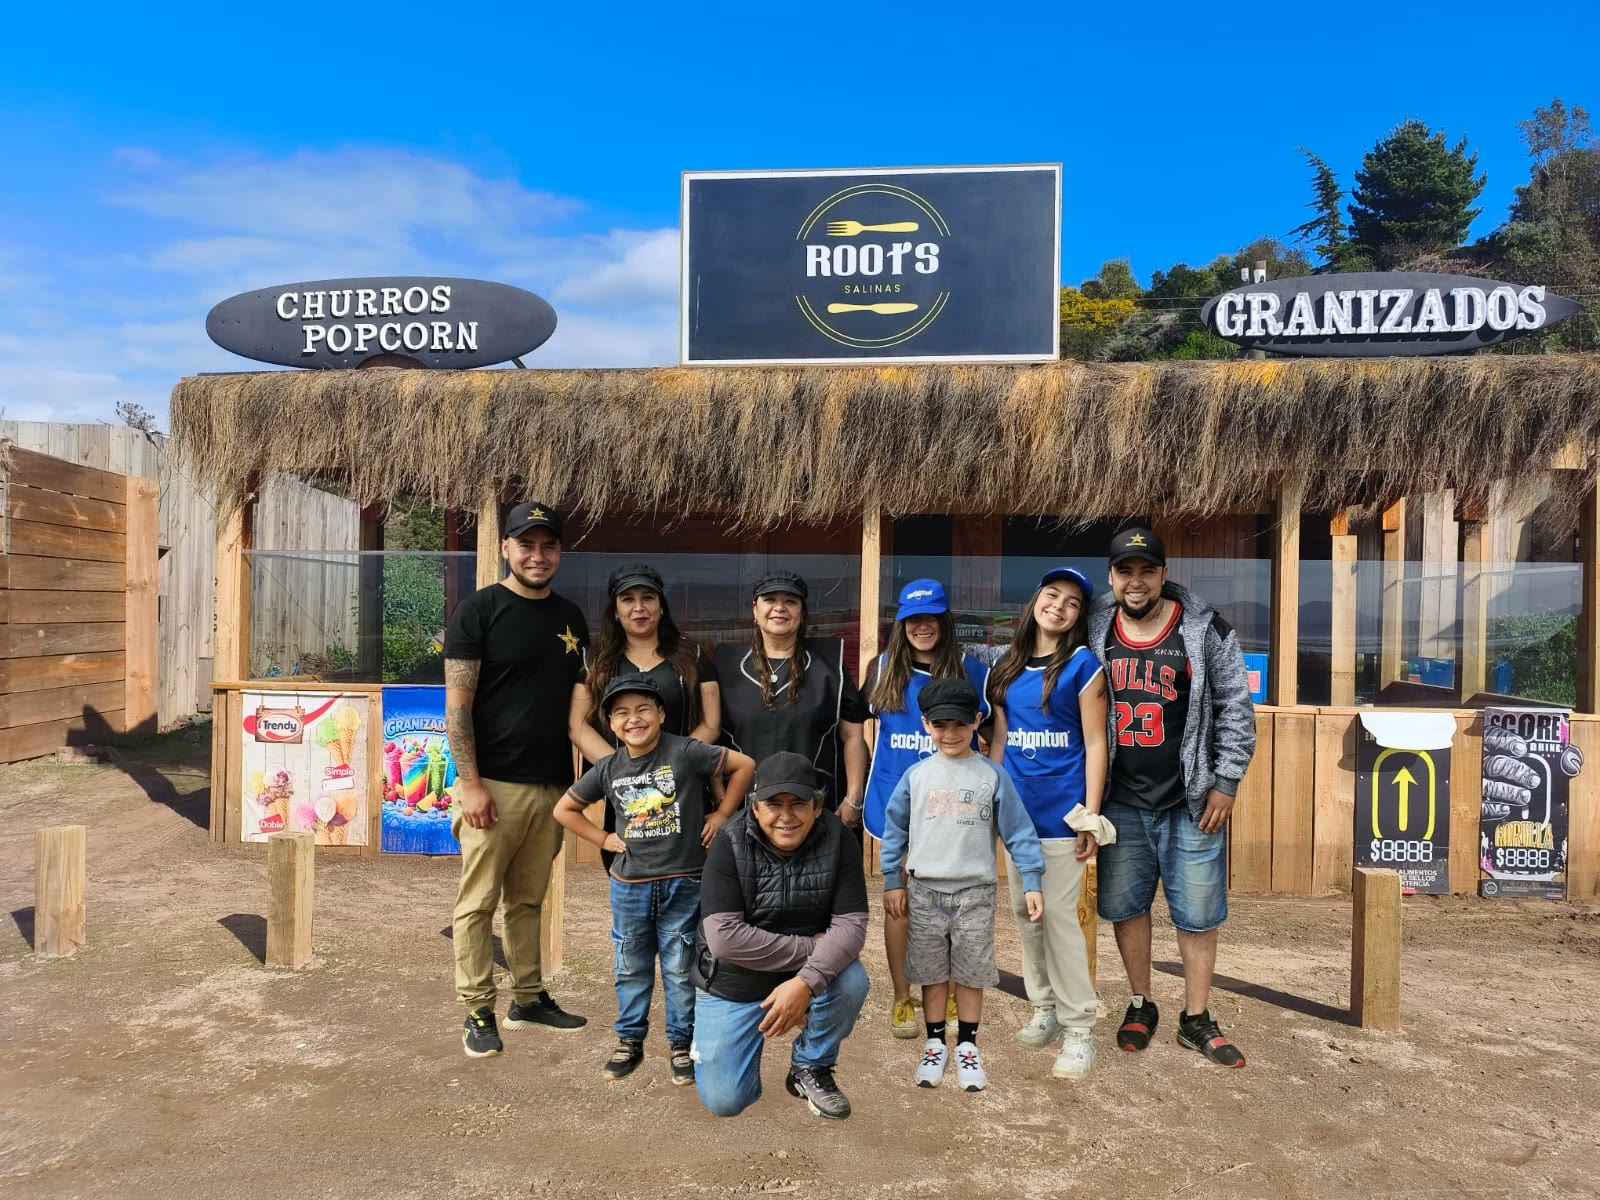
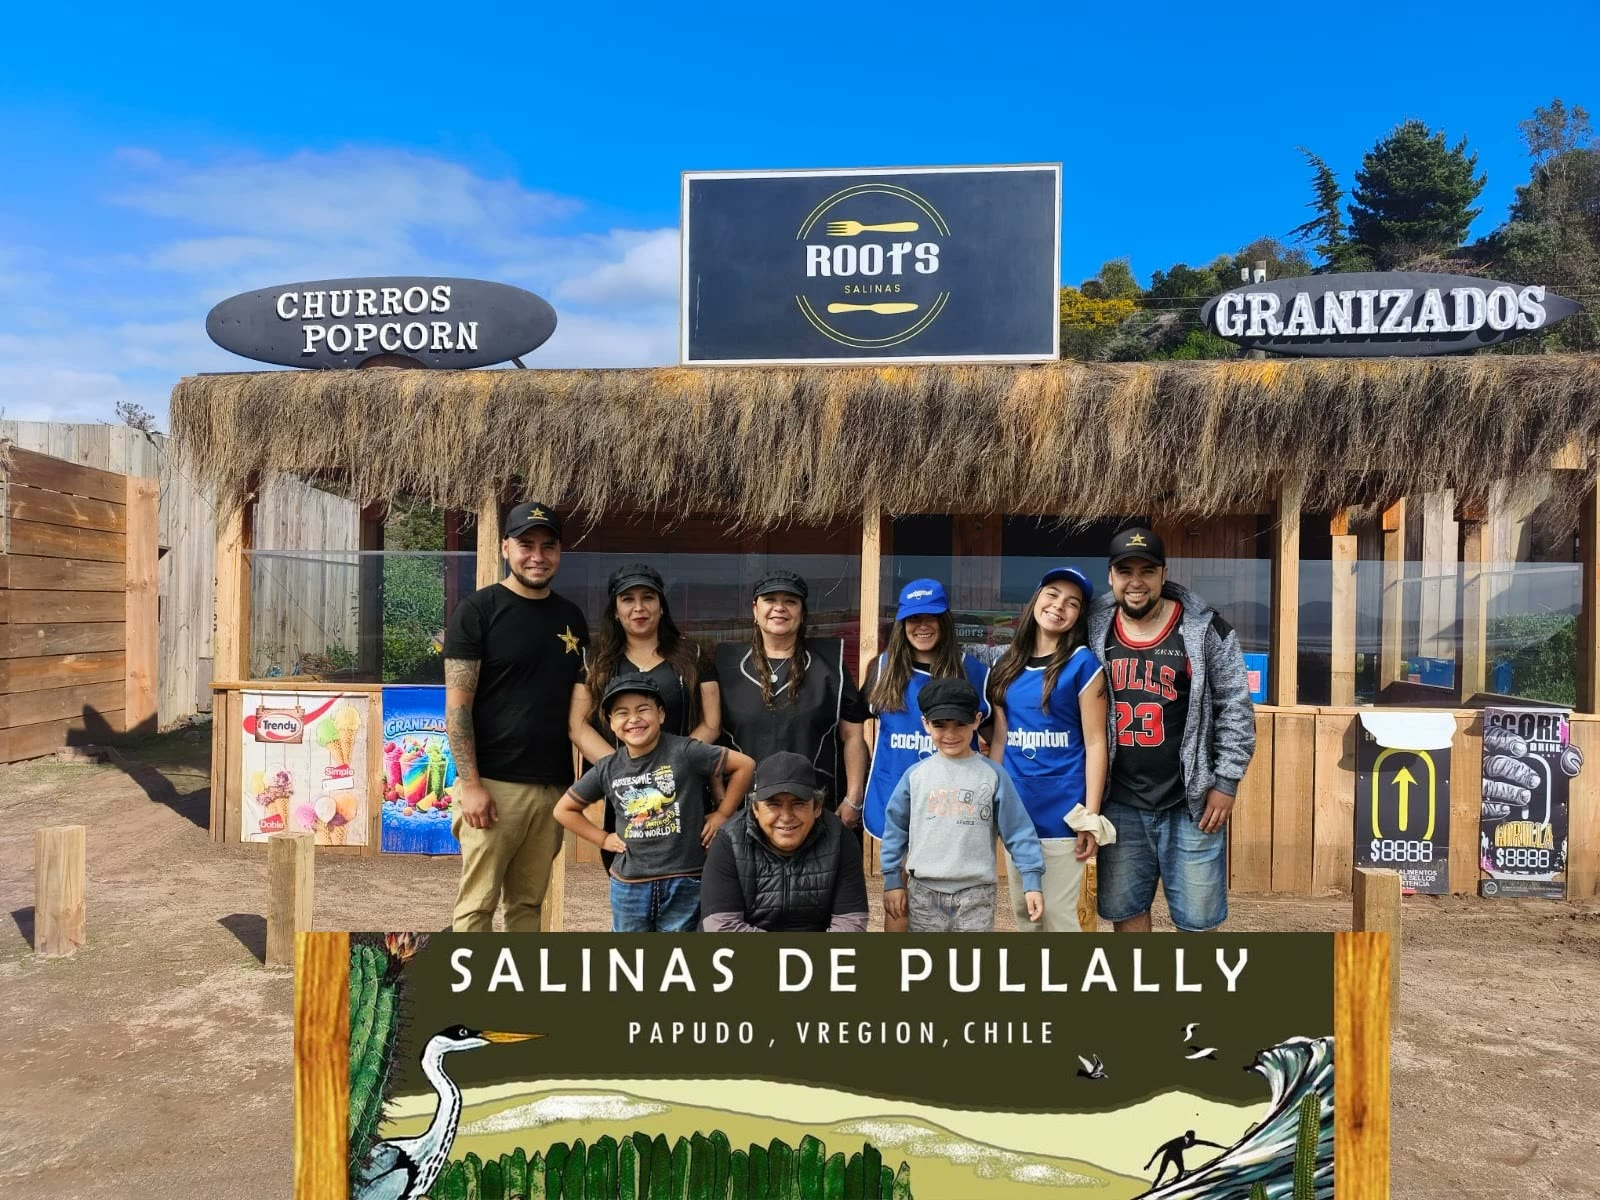
Foto de inicio con el cartel de Salinas de Pullally, mostrada completa
- Nueva foto de portada: la familia con el cartel ilustrado "Salinas de
  Pullally, Papudo, V Región, Chile".
- En escritorio la foto se muestra entera (4:3) junto al texto, sin
  recortes ni sombreado encima, para que el cartel se lea completo.

Changed region(s): [[0.1562, 0.7708, 0.875, 1.0]]

diff --git a/assets/css/styles.css b/assets/css/styles.css
@@ -113,15 +113,16 @@ p { margin: 0 0 1em; }
   font-variation-settings: "SOFT" 50, "opsz" 144; letter-spacing: -.025em; margin-bottom: .32em;
 }
 /* Portada con foto de la familia: texto a la izquierda, foto completa a la derecha */
-.hero--split { display: grid; grid-template-columns: minmax(0, 1fr) minmax(0, 1.25fr); align-items: stretch; min-height: 100svh; background: var(--night); }
-.hero--split .hero__img { position: relative; grid-column: 2; grid-row: 1; inset: auto; height: 100%; min-height: 100svh; object-position: 50% 55%; animation: none; }
-.hero--split .hero__shade { grid-column: 2; grid-row: 1; position: relative; inset: auto; background: linear-gradient(90deg, var(--night) 0%, rgba(18, 16, 13, 0) 22%), linear-gradient(180deg, rgba(18, 16, 13, .55) 0%, rgba(18, 16, 13, 0) 18%, rgba(18, 16, 13, 0) 80%, rgba(18, 16, 13, .7) 100%); }
+.hero--split { display: grid; grid-template-columns: minmax(0, 1fr) minmax(0, 1.5fr); align-items: center; min-height: 100svh; padding-top: 72px; background: var(--night); }
+/* La foto de inicio se muestra completa (4:3) para que se lea el letrero "Salinas de Pullally" */
+.hero--split .hero__img { position: relative; grid-column: 2; grid-row: 1; inset: auto; width: 100%; height: auto; aspect-ratio: 4 / 3; object-fit: cover; animation: none; border-radius: var(--radius) 0 0 var(--radius); }
+.hero--split .hero__shade { display: none; }
 .hero--split .hero__content { grid-column: 1; grid-row: 1; align-self: center; width: auto; margin: 0; padding: 120px clamp(24px, 4vw, 56px) 120px max(var(--gutter), calc((100vw - 1280px) / 2 + var(--gutter))); }
 .hero--split .hero__title { font-size: clamp(2.6rem, 5.2vw, 5rem); }
 @media (max-width: 880px) {
-  .hero--split { grid-template-columns: 1fr; min-height: 0; }
-  .hero--split .hero__img { grid-column: 1; grid-row: 1; min-height: 0; height: auto; aspect-ratio: 4 / 3; }
-  .hero--split .hero__shade { grid-column: 1; grid-row: 1; background: linear-gradient(180deg, rgba(18, 16, 13, .6) 0%, rgba(18, 16, 13, 0) 25%, rgba(18, 16, 13, 0) 75%, var(--night) 100%); }
+  .hero--split { grid-template-columns: 1fr; min-height: 0; padding-top: 0; }
+  .hero--split .hero__img { grid-column: 1; grid-row: 1; border-radius: 0; }
+  .hero--split .hero__shade { display: block; grid-column: 1; grid-row: 1; position: relative; inset: auto; align-self: stretch; background: linear-gradient(180deg, rgba(18, 16, 13, .6) 0%, rgba(18, 16, 13, 0) 22%); }
   .hero--split .hero__content { grid-column: 1; grid-row: 2; padding: 8px var(--gutter) 96px; }
 }
 .hero__sub { font: italic 300 clamp(1.3rem, 2.6vw, 2rem)/1.25 var(--f-serif); color: var(--gold); margin-bottom: .6em; }

diff --git a/index.html b/index.html
@@ -82,7 +82,7 @@
   <main id="contenido">
     <!-- HERO -->
     <section class="hero hero--split" id="inicio">
-      <img class="hero__img hero__img--familia" src="assets/img/fotos/familia-roots.jpg" alt="La familia Roots Salinas frente al local, bajo el letrero de Roots Salinas, Churros Popcorn y Granizados" width="1600" height="1200">
+      <img class="hero__img hero__img--familia" src="assets/img/fotos/familia-roots.jpg" alt="La familia Roots Salinas frente al local, bajo los letreros de Roots Salinas, Churros Popcorn y Granizados, con el cartel ilustrado de Salinas de Pullally, Papudo" width="1600" height="1200">
       <div class="hero__shade" aria-hidden="true"></div>
       <div class="hero__content">
         <p class="hero__place">Playa Las Salinas de Pullally, Papudo</p>
